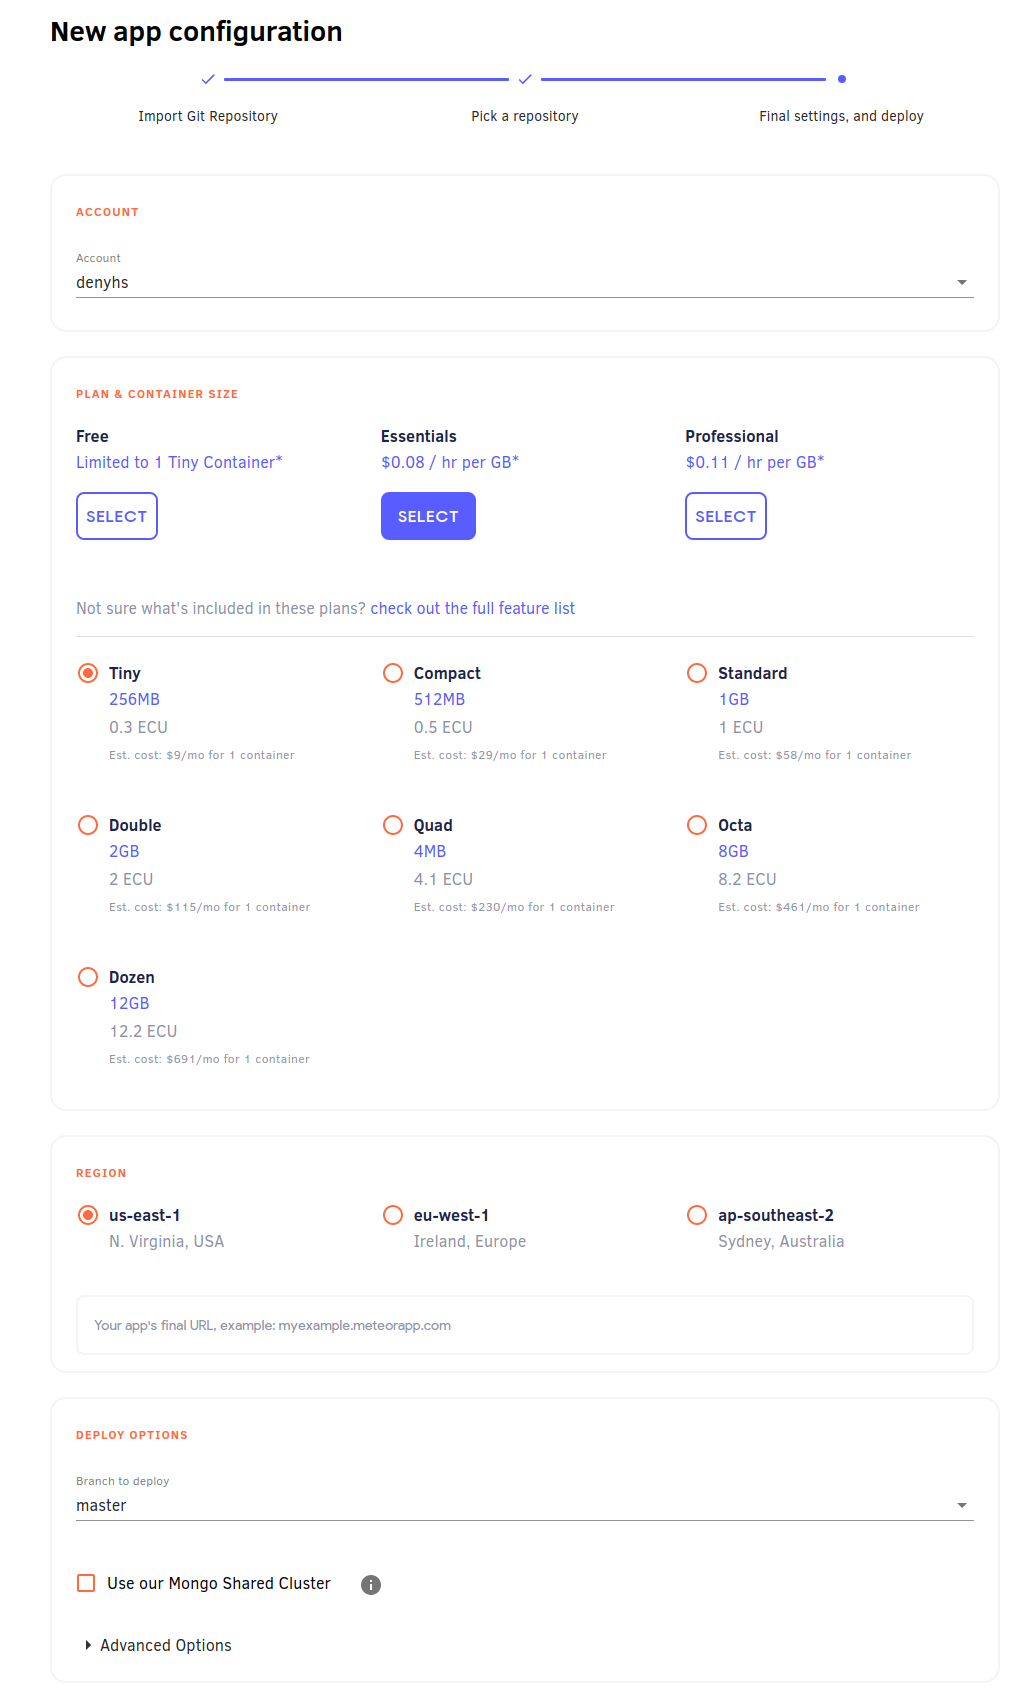
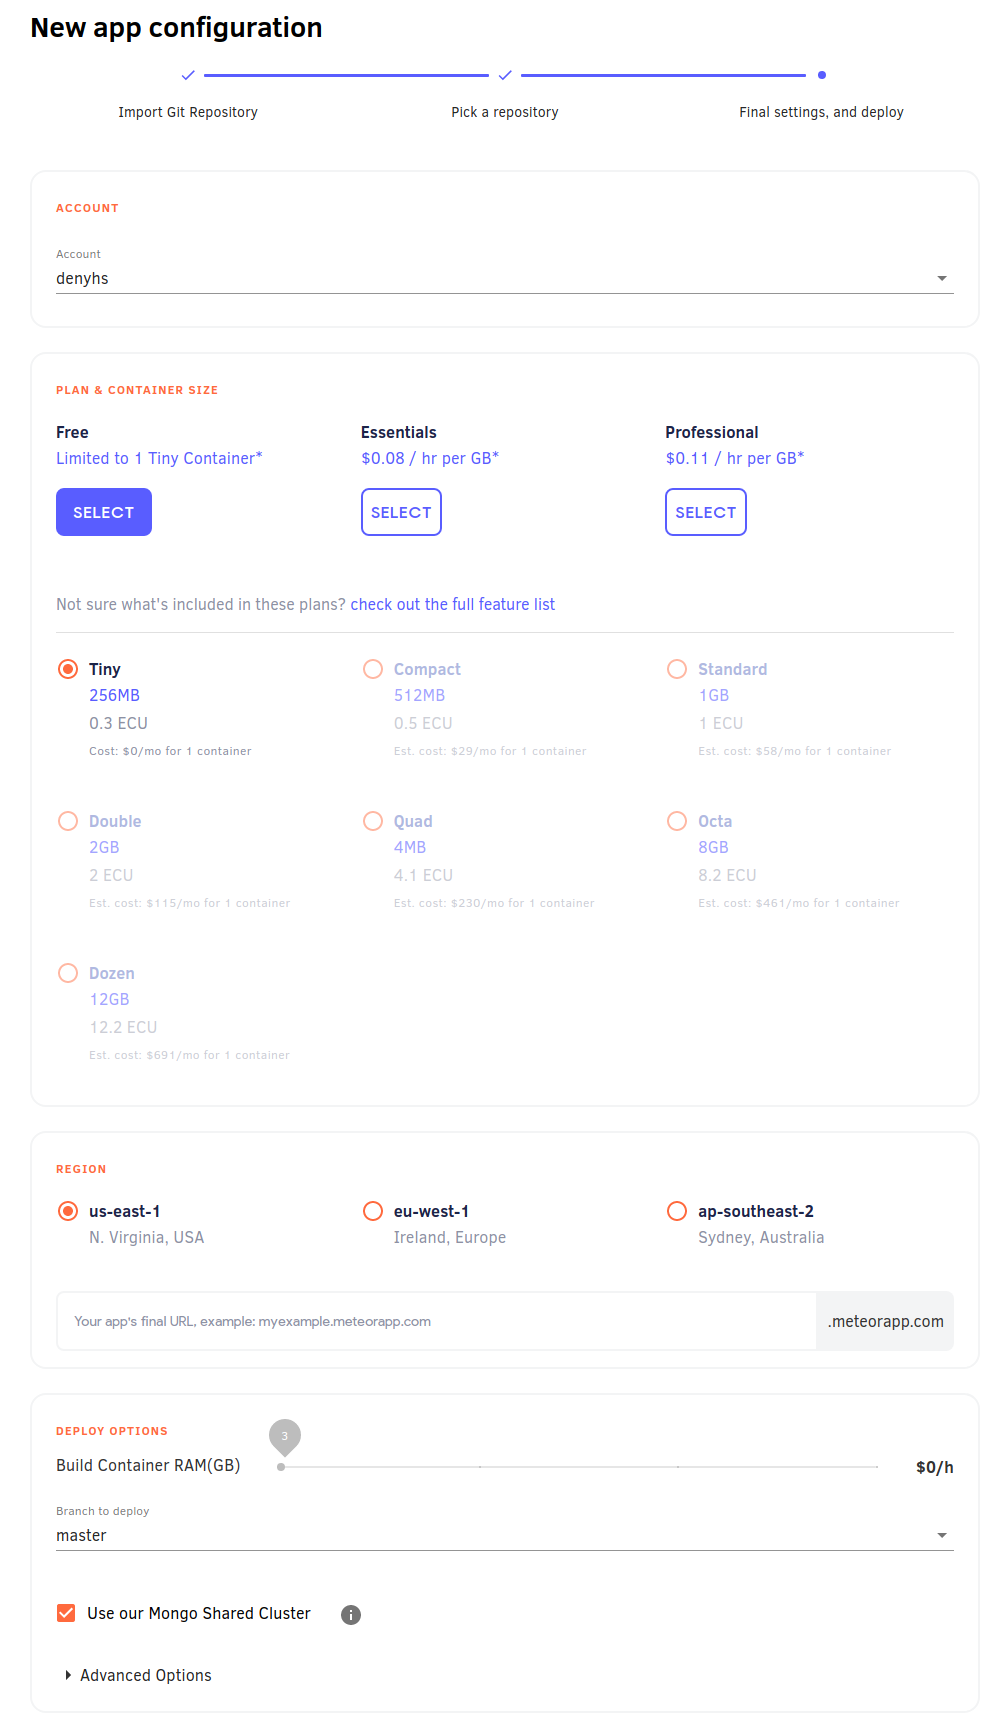
#682 - Push to Deploy - Beta
Updating p2d doc

diff --git a/source/push-to-deploy.md b/source/push-to-deploy.md
@@ -42,7 +42,7 @@ You also have *Advanced Options*. Here is a description of each one:
 - **Root Directory**: Directory on your repository where the root of your Meteor app is.
 - **Pre Deploy Command**: This is the command that you run to install the apps dependencies, usually being `meteor npm install --production`.
 - **Deploy Arguments**: Some argument that you can provide to your [deploy command line](https://docs.meteor.com/commandline.html#meteordeploy). It shouldn't be necessary for most the cases.
-- *Memory amount on deploy*: This defines how much memory you want to use to deploy your app.
+- *Build Container RAM*: This defines how much memory you want to use to deploy your app.
 - **Environment Variables**: Most common when deploying a Meteor app is `DEPLOY_HOSTNAME`, that you don't need to provide anymore.
 
 <img src="images/push-to-deploy-third-step-advanced-options.png" style="width: 780px;">
@@ -90,4 +90,4 @@ You can't. At least for now the only way a deploy is cancelled is if a new commi
 
 5 - **What docker error 137 means?**
 
-This error means there was an Out Of Memory error. To solve this you should increase the amount of memory you use to deploy your app. You can do this on the third step of the Push to Deploy screen, on the section *Deploy options* > *Advanced options* > *Memory amount on deploy*.
+This error means there was an Out Of Memory error. To solve this you should increase the amount of memory you use to deploy your app. You can do this on the third step of the Push to Deploy screen, on the section *Deploy options* > *Build Container RAM*.
